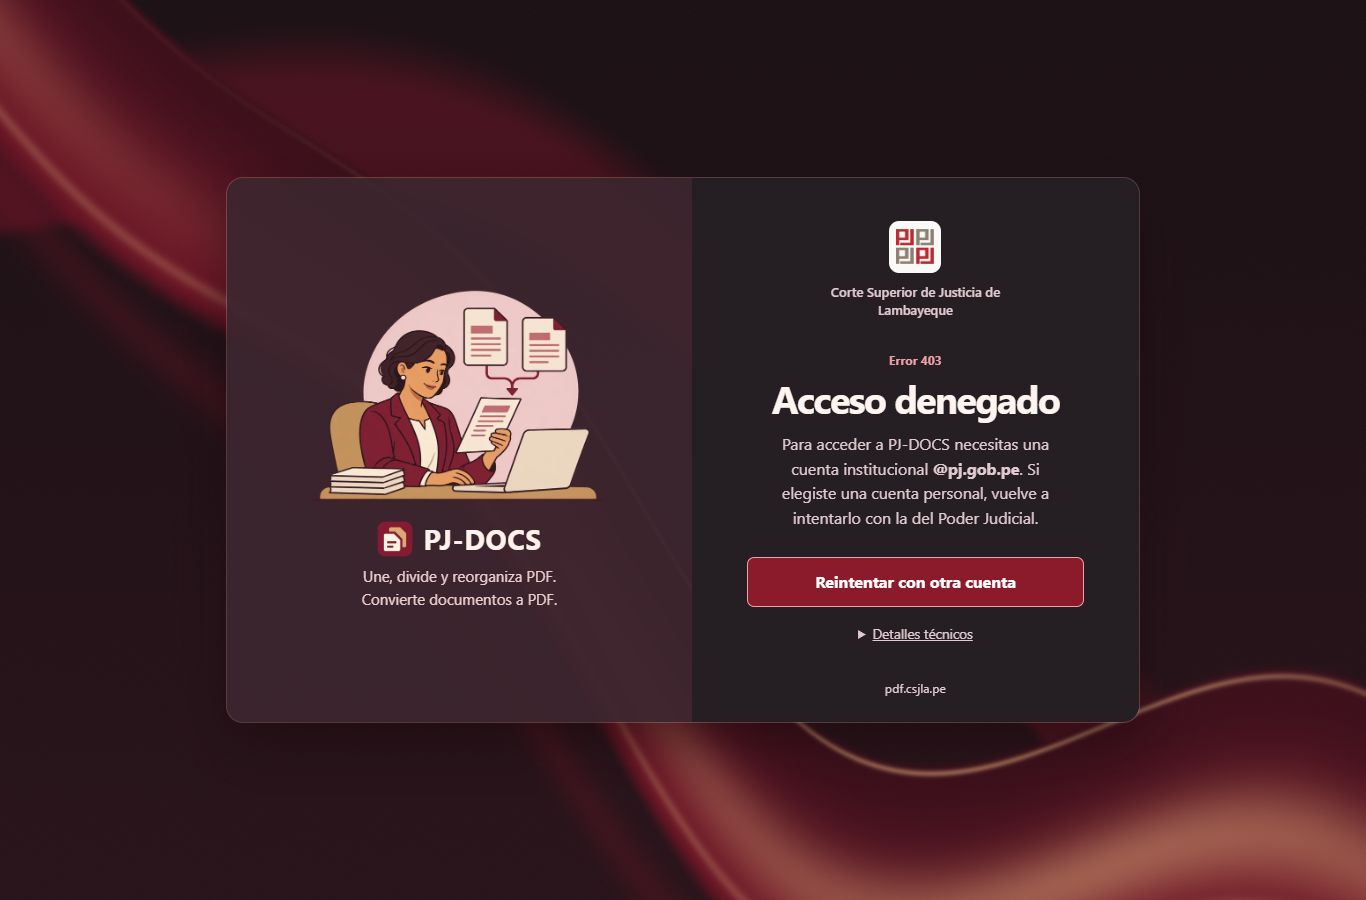
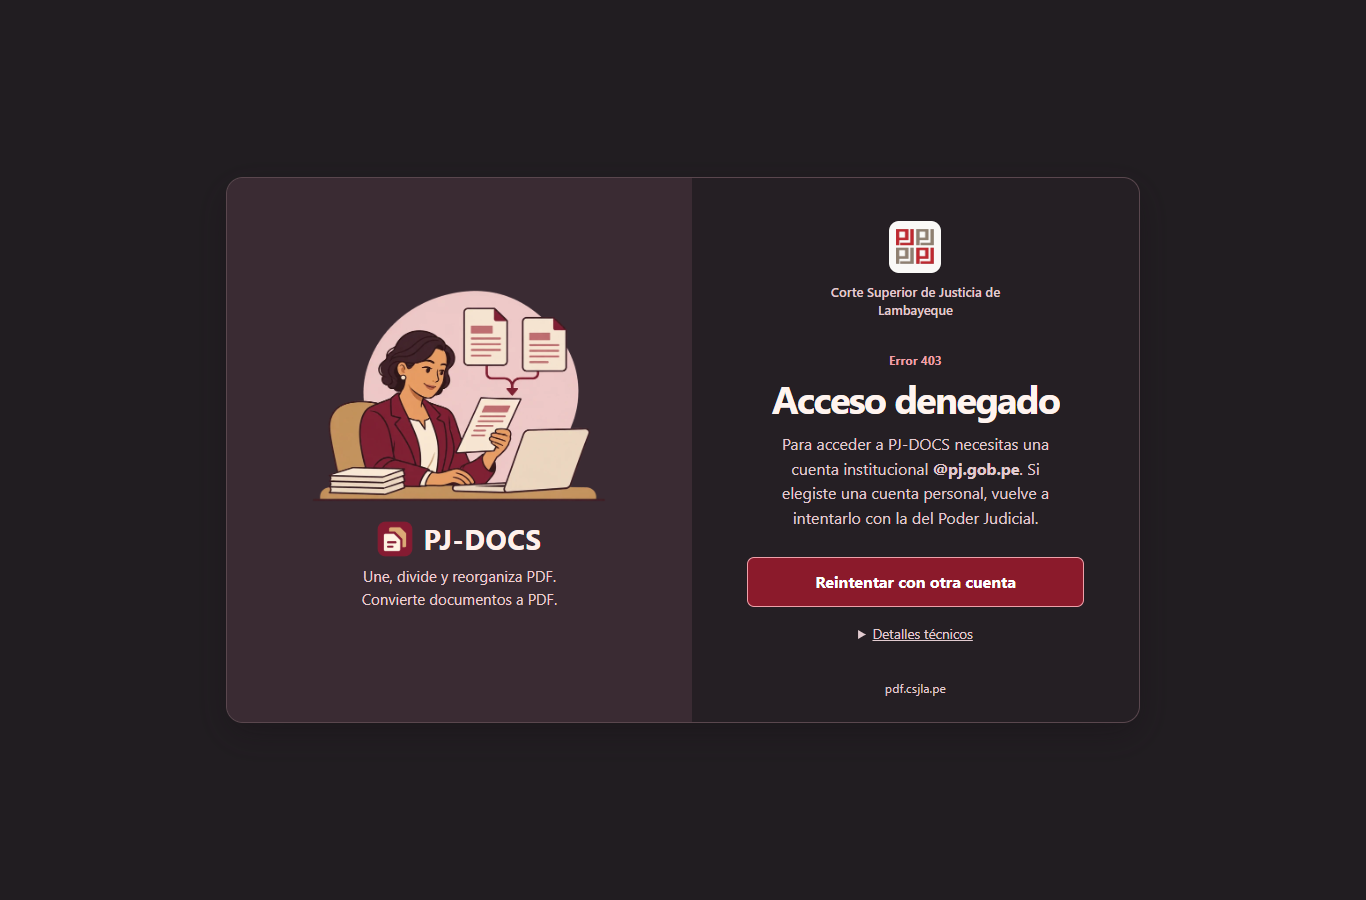
style(deploy): simplify the PJ-DOCS sign-in background

diff --git a/deploy/oauth2-proxy/templates/sign_in.html b/deploy/oauth2-proxy/templates/sign_in.html
@@ -18,15 +18,14 @@
     --p-csjla-guinda-900: #751b28;
     --p-csjla-guinda-300: #efa0a9;
     --p-csjla-gray-50: #faf9f7;
-    --base: #f4e5dc;
-    --wash: linear-gradient(150deg, #e1c7b6 12%, #b9857a 37%, #782b3c 53%, #ba897e 72%, #e2c9b7 92%);
+    --base: #eee9e6;
     --surface: #fcf9f5;
-    --edge: #fffaf6;
+    --edge: #dcd1cc;
     --text: #30252a;
     --muted: #594b50;
     --accent: var(--p-csjla-guinda-800);
-    --shadow: #3d22263b;
-    --brand-surface: #f5e6e4ef;
+    --shadow: #3d22261a;
+    --brand-surface: #f2e4e1;
     --brand-text: #44232b;
     --brand-muted: #654751;
   }
@@ -39,22 +38,6 @@
     color: var(--text);
     font: 1rem/1.55 system-ui, sans-serif;
   }
-
-  .backdrop {
-    position: fixed;
-    inset: 0;
-    pointer-events: none;
-    background: var(--wash);
-  }
-
-  .aurora {
-    display: block;
-    width: 100%;
-    height: 100%;
-    visibility: hidden;
-  }
-
-  .aurora[data-ready] { visibility: visible; }
 
   .shell {
     position: relative;
@@ -74,7 +57,7 @@
     border-radius: 1rem;
     overflow: clip;
     outline: 1px solid var(--edge);
-    box-shadow: 0 1.25rem 3.5rem var(--shadow);
+    box-shadow: 0 .75rem 2rem var(--shadow);
   }
 
   .brand {
@@ -241,15 +224,14 @@
 
   @media (prefers-color-scheme: dark) {
     :root {
-      --base: #2c1118;
-      --wash: linear-gradient(150deg, #210e15 12%, #400a13 36%, #751b28 53%, #623731 70%, #24121a 92%);
+      --base: #211d21;
       --surface: #251f24;
-      --edge: #eab7ae43;
+      --edge: #5a474e;
       --text: #fff4ef;
       --muted: #e2cbd0;
       --accent: var(--p-csjla-guinda-300);
-      --shadow: #18050a85;
-      --brand-surface: #3c252eef;
+      --shadow: #140e1459;
+      --brand-surface: #3a2b33;
       --brand-text: #fff1eb;
       --brand-muted: #edcfd1;
     }
@@ -278,230 +260,11 @@
   }
 
   @media (forced-colors: active) {
-    .backdrop { display: none; }
     main { outline-color: CanvasText; }
     .brand { outline: 1px solid CanvasText; }
     :where(button, a, summary):focus-visible { outline-color: Highlight; }
   }
 </style>
-{{end}}
-
-{{define "pjdocs-backdrop"}}
-<div class="backdrop" aria-hidden="true">
-  <canvas class="aurora" id="aurora"></canvas>
-</div>
-{{end}}
-
-{{define "pjdocs-aurora"}}
-<script>
-(() => {
-  "use strict";
-
-  const canvas = document.getElementById("aurora");
-  const gl = canvas.getContext("webgl", {
-    alpha: false, antialias: false, depth: false, powerPreference: "low-power"
-  });
-  if (!gl) return;
-
-  const dark = matchMedia("(prefers-color-scheme: dark)");
-  const reduced = matchMedia("(prefers-reduced-motion: reduce)");
-  const forced = matchMedia("(forced-colors: active)");
-  const vertex = [
-    "attribute vec2 aPosition;",
-    "varying vec2 vUV;",
-    "void main() {",
-    "  vUV = aPosition * 0.5 + 0.5;",
-    "  gl_Position = vec4(aPosition, 0.0, 1.0);",
-    "}"
-  ].join("\n");
-
-  // Offset the folds at different rates to give the surface depth as the pointer moves.
-  const fragment = [
-    "#ifdef GL_FRAGMENT_PRECISION_HIGH",
-    "precision highp float;",
-    "#else",
-    "precision mediump float;",
-    "#endif",
-    "varying vec2 vUV;",
-    "uniform vec2 uResolution;",
-    "uniform vec2 uPointer;",
-    "uniform float uTime;",
-    "uniform float uDark;",
-    "float band(float x, float width) {",
-    "  float d = x / width;",
-    "  return exp(-d * d);",
-    "}",
-    "void main() {",
-    "  vec2 uv = vUV;",
-    "  vec2 p = (uv - 0.5) * vec2(min(2.3, uResolution.x / uResolution.y), 1.0);",
-    "  float t = uTime * 0.26;",
-    "  float x = p.x + uPointer.x * 0.06;",
-    "  float y = p.y + uPointer.y * 0.07;",
-    "  float fold = y + 0.62 * x + 0.18 * sin(3.2 * x + t + 0.8);",
-    "  fold += 0.05 * sin(6.5 * x - 2.2 * y - t * 0.45);",
-    "  float back = p.y + 0.48 * p.x + 0.18 * sin(3.6 * p.x - t * 0.57 - 0.7);",
-    "  float front = fold + 0.043 * sin(6.4 * x + t * 0.72) + uPointer.y * 0.05;",
-    "  vec3 paper = mix(vec3(0.95, 0.864, 0.787), vec3(0.116, 0.071, 0.090), uDark);",
-    "  vec3 mist = mix(vec3(0.72, 0.545, 0.527), vec3(0.163, 0.080, 0.107), uDark);",
-    "  vec3 wine = vec3(0.41, 0.08, 0.144);",
-    "  vec3 gold = vec3(0.84, 0.63, 0.46);",
-    "  vec3 color = mix(mist, paper, smoothstep(-0.14, 1.0, uv.y));",
-    "  float farRibbon = smoothstep(-0.05, -0.025, back) * (1.0 - smoothstep(0.08, 0.16, back));",
-    "  color = mix(color, wine, farRibbon * 0.57);",
-    "  float ribbon = smoothstep(-0.26, -0.22, front) * (1.0 - smoothstep(0.045, 0.06, front));",
-    "  vec3 surface = mix(wine, vec3(0.24, 0.065, 0.110), smoothstep(-0.18, 0.04, front));",
-    "  float sheen = band(front + 0.13, 0.055) * (0.30 + 0.22 * sin(x * 3.5 - t * 0.3));",
-    "  surface = mix(surface, gold, sheen);",
-    "  color = mix(color, surface, ribbon);",
-    "  color = mix(color, gold, band(front - 0.044, 0.004) * (0.30 + 0.26 * sin(3.6 * x + t)));",
-    "  color = mix(color, gold, band(front + 0.207, 0.009) * 0.26);",
-    "  color = mix(color, wine, band(fold + 0.325, 0.035) * 0.31);",
-    "  float grain = fract(dot(mod(gl_FragCoord.xy, 127.0), vec2(0.06711056, 0.00583715)));",
-    "  color += (fract(grain * 52.9829189) - 0.5) * 0.014;",
-    "  gl_FragColor = vec4(color, 1.0);",
-    "}"
-  ].join("\n");
-
-  function compile(type, source) {
-    const shader = gl.createShader(type);
-    if (!shader) return null;
-    gl.shaderSource(shader, source);
-    gl.compileShader(shader);
-    if (gl.getShaderParameter(shader, gl.COMPILE_STATUS)) return shader;
-    gl.deleteShader(shader);
-    return null;
-  }
-
-  function createScene() {
-    const vs = compile(gl.VERTEX_SHADER, vertex);
-    const fs = compile(gl.FRAGMENT_SHADER, fragment);
-    const program = vs && fs && gl.createProgram();
-    if (program) {
-      gl.attachShader(program, vs);
-      gl.attachShader(program, fs);
-      gl.bindAttribLocation(program, 0, "aPosition");
-      gl.linkProgram(program);
-    }
-    if (vs) gl.deleteShader(vs);
-    if (fs) gl.deleteShader(fs);
-    if (!program) return null;
-    if (!gl.getProgramParameter(program, gl.LINK_STATUS)) {
-      gl.deleteProgram(program);
-      return null;
-    }
-
-    const triangle = gl.createBuffer();
-    if (!triangle) {
-      gl.deleteProgram(program);
-      return null;
-    }
-    gl.bindBuffer(gl.ARRAY_BUFFER, triangle);
-    gl.bufferData(gl.ARRAY_BUFFER, new Float32Array([-1, -1, 3, -1, -1, 3]), gl.STATIC_DRAW);
-    gl.useProgram(program);
-    gl.enableVertexAttribArray(0);
-    gl.vertexAttribPointer(0, 2, gl.FLOAT, false, 0, 0);
-    return {
-      resolution: gl.getUniformLocation(program, "uResolution"),
-      pointer: gl.getUniformLocation(program, "uPointer"),
-      time: gl.getUniformLocation(program, "uTime"),
-      dark: gl.getUniformLocation(program, "uDark")
-    };
-  }
-
-  let scene = createScene();
-  let frame = 0;
-  let lastDraw = null;
-  let time = 0;
-  let pointerX = 0;
-  let pointerY = 0;
-  let targetX = 0;
-  let targetY = 0;
-
-  function draw() {
-    gl.uniform2f(scene.pointer, pointerX, pointerY);
-    gl.uniform1f(scene.time, time);
-    gl.drawArrays(gl.TRIANGLES, 0, 3);
-    if (!canvas.hasAttribute("data-ready")) canvas.setAttribute("data-ready", "");
-  }
-
-  function tick(now) {
-    frame = 0;
-    if (document.hidden || !scene || reduced.matches || forced.matches) return;
-    const elapsed = lastDraw === null ? 0 : now - lastDraw;
-    // Bound fragment work on high-refresh displays and avoid jumps after a slow frame.
-    if (lastDraw === null || elapsed >= 32) {
-      const delta = Math.min(elapsed, 50) / 1000;
-      const blend = 1 - Math.exp(-delta * 4);
-      time += delta;
-      pointerX += (targetX - pointerX) * blend;
-      pointerY += (targetY - pointerY) * blend;
-      draw();
-      lastDraw = now;
-    }
-    frame = requestAnimationFrame(tick);
-  }
-
-  function stop() {
-    cancelAnimationFrame(frame);
-    frame = 0;
-    lastDraw = null;
-  }
-
-  function refresh() {
-    stop();
-    if (document.hidden || !scene || forced.matches) return;
-    const ratio = Math.min(window.devicePixelRatio || 1, 1.5);
-    const width = Math.max(1, Math.floor(canvas.clientWidth * ratio));
-    const height = Math.max(1, Math.floor(canvas.clientHeight * ratio));
-    if (canvas.width !== width) canvas.width = width;
-    if (canvas.height !== height) canvas.height = height;
-    gl.viewport(0, 0, gl.drawingBufferWidth, gl.drawingBufferHeight);
-    gl.uniform2f(scene.resolution, gl.drawingBufferWidth, gl.drawingBufferHeight);
-    gl.uniform1f(scene.dark, Number(dark.matches));
-    if (reduced.matches) {
-      time = pointerX = pointerY = targetX = targetY = 0;
-      draw();
-    } else {
-      frame = requestAnimationFrame(tick);
-    }
-  }
-
-  function point(event) {
-    if (reduced.matches || forced.matches) return;
-    targetX = 2 * event.clientX / canvas.clientWidth - 1;
-    targetY = 1 - 2 * event.clientY / canvas.clientHeight;
-  }
-
-  function centerPointer() {
-    targetX = targetY = 0;
-  }
-
-  window.addEventListener("pointerdown", point, { passive: true });
-  window.addEventListener("pointermove", point, { passive: true });
-  window.addEventListener("pointerup", event => {
-    if (event.pointerType !== "mouse") centerPointer();
-  }, { passive: true });
-  window.addEventListener("pointercancel", centerPointer, { passive: true });
-  document.documentElement.addEventListener("pointerleave", centerPointer, { passive: true });
-  window.addEventListener("resize", refresh);
-  document.addEventListener("visibilitychange", refresh);
-  dark.addEventListener("change", refresh);
-  reduced.addEventListener("change", refresh);
-  forced.addEventListener("change", refresh);
-  canvas.addEventListener("webglcontextlost", event => {
-    event.preventDefault();
-    stop();
-    scene = null;
-    canvas.removeAttribute("data-ready");
-  });
-  canvas.addEventListener("webglcontextrestored", () => {
-    scene = createScene();
-    refresh();
-  });
-
-  refresh();
-})();
-</script>
 {{end}}
 
 {{define "pjdocs-masthead"}}
@@ -538,7 +301,6 @@
   <title>Inicia sesión · PJ-DOCS</title>
 </head>
 <body>
-  {{template "pjdocs-backdrop"}}
   <div class="shell">
     <main>
       {{template "pjdocs-brand"}}
@@ -630,7 +392,6 @@
       </section>
     </main>
   </div>
-  {{template "pjdocs-aurora"}}
 </body>
 </html>
 {{end}}

diff --git a/deploy/oauth2-proxy/templates/error.html b/deploy/oauth2-proxy/templates/error.html
@@ -6,7 +6,6 @@
   <title>{{.StatusCode}} · {{if eq .StatusCode 403}}Acceso denegado{{else}}Error de acceso{{end}} · PJ-DOCS</title>
 </head>
 <body>
-  {{template "pjdocs-backdrop"}}
   <div class="shell">
     <main>
       {{template "pjdocs-brand"}}
@@ -43,7 +42,6 @@
       </section>
     </main>
   </div>
-  {{template "pjdocs-aurora"}}
 </body>
 </html>
 {{end}}

diff --git a/deploy/oauth2-proxy/README.md b/deploy/oauth2-proxy/README.md
@@ -39,7 +39,7 @@ OAuth2 Proxy carga las dos plantillas en un mismo conjunto. `sign_in.html` conti
 
 Ambas páginas comparten una tarjeta con una ilustración de trabajo con documentos, el logo de PJ-DOCS y el emblema de la CSJLA. La ilustración, el logo y el favicon de [`assets/`](assets/) se incrustan en `sign_in.html` como URL de datos porque OAuth2 Proxy carga las plantillas sin servir esos archivos. En pantallas pequeñas los paneles se apilan.
 
-La aurora WebGL se ve a través del panel de marca y responde al puntero y al toque. Si WebGL no está disponible, se muestra un degradado CSS. La preferencia de movimiento reducido deja un fotograma estático. El renderizado se pausa cuando la pestaña queda oculta y limita la densidad de píxeles del lienzo a 1,5.
+Ambas vistas usan un fondo fijo que se adapta al tema del sistema.
 
 El formulario usa `.ProxyPrefix` y `.Redirect` para enviar `rd` a `/start`. La página de error usa también `.StatusCode`, `.Title`, `.Message`, `.RequestID`, `.Footer` y `.Version`. El 403 incluye el requisito del dominio y permite elegir otra cuenta. [Variables de inicio de sesión](https://github.com/oauth2-proxy/oauth2-proxy/blob/v7.15.6/pkg/app/pagewriter/sign_in_page.go) · [Variables de error](https://github.com/oauth2-proxy/oauth2-proxy/blob/v7.15.6/pkg/app/pagewriter/error_page.go)
 
@@ -49,4 +49,4 @@ Desde la raíz del repositorio, ejecuta el renderizador con datos de ejemplo y a
 go run ./deploy/oauth2-proxy/preview/render.go /tmp/pjdocs-oauth-preview
 ```
 
-[Las capturas](preview/) cubren inicio de sesión y error 403 en claro y oscuro, a 1366 × 900 y 390 × 844 píxeles. [La captura con movimiento reducido](preview/sign_in-1366-dark-reduced-motion.png) muestra el fotograma estático.
+[Las capturas](preview/) cubren inicio de sesión y error 403 en claro y oscuro, a 1366 × 900 y 390 × 844 píxeles. [La captura con movimiento reducido](preview/sign_in-1366-dark-reduced-motion.png) confirma el mismo fondo fijo.
